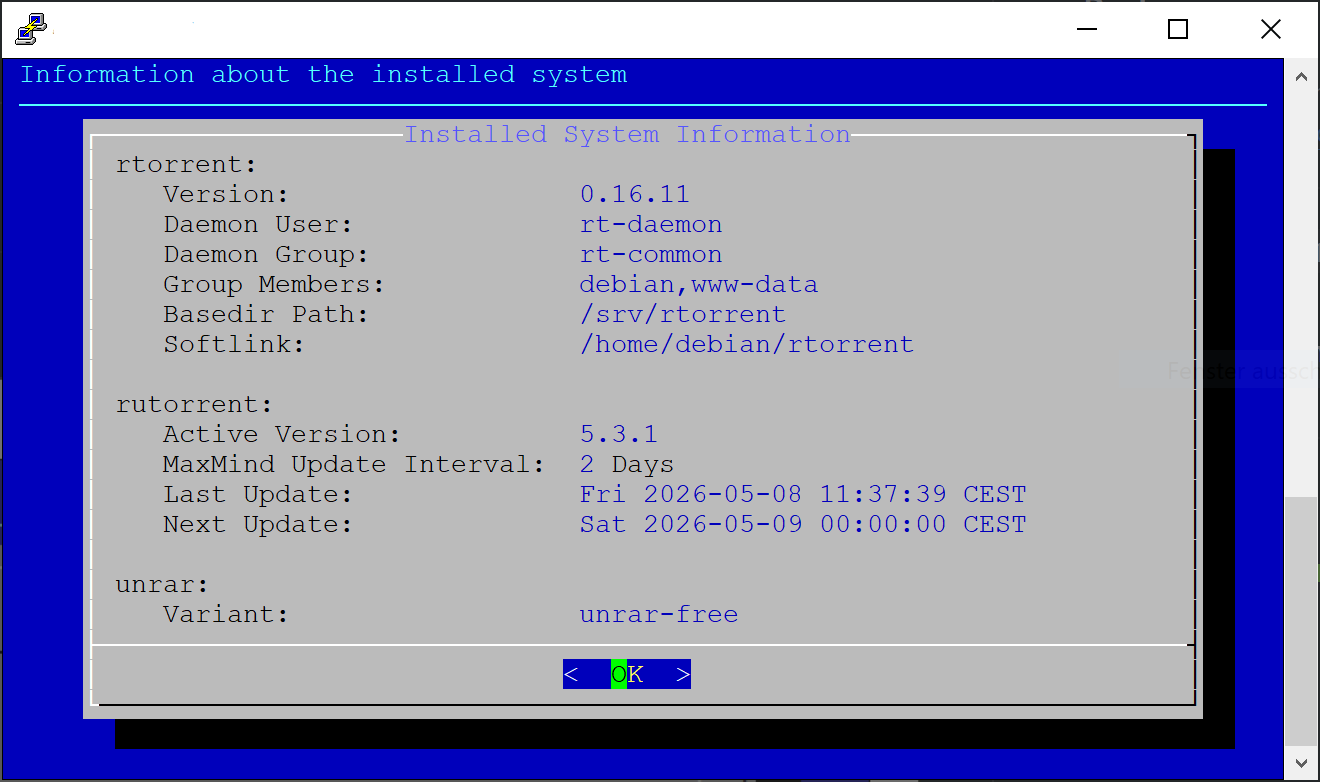
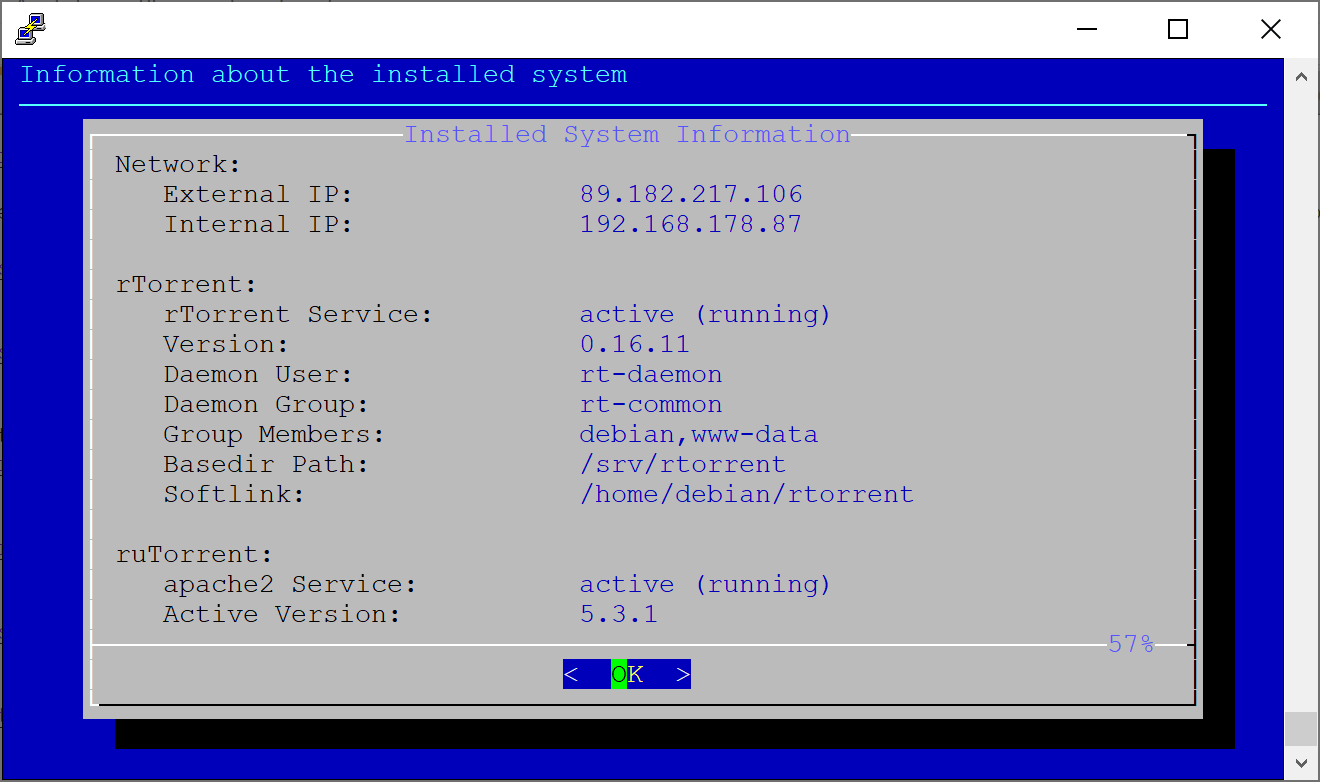
Update to Version 4.4
* fix bug in Installed Information window
* upgrade the Installed Information so that more infomation
  visible

diff --git a/README.md b/README.md
@@ -45,6 +45,7 @@ Choose your rtorrent Version from repository or a release Version direcly from g
 (rtorrent can be changed without reinstallation!)
 
 ![ruTorrent](https://github.com/MarkusLange/r_ru-torrent-install-script/blob/main/screenshots/Ic_Scripted%20Installation_choose_ruTorrent_version.PNG)
+(ruTorrent can be changed without reinstallation!)
 
 Review the Installation Summary, and install everthing if it fits, or arbort it, without making any system changes at all
 ![Scriptet Summery](https://github.com/MarkusLange/r_ru-torrent-install-script/blob/main/screenshots/Id_Scripted%20Installation_summary.PNG)
@@ -67,7 +68,9 @@ Remove unused ruTorrent installations if needes anymore
 
 Or remove the installation if it doesn't fit your needs
 ![Removeall](https://github.com/MarkusLange/r_ru-torrent-install-script/blob/main/screenshots/X_Remove%20complete%20rtorrent%20and%20rutorrent%20installation.PNG)
-(ruTorrent can be changed without reinstallation!)
+
+Overview of the installed system
+![Installed System Infomation](https://github.com/MarkusLange/r_ru-torrent-install-script/blob/main/screenshots/D_System%20Installed%20Information.PNG)
 
 ## Features ##
 - GUI
@@ -123,7 +126,7 @@ Or remove the installation if it doesn't fit your needs
   - List of unrar-nonfree versions in different linux distributions/releases (https://repology.org/project/unrar-nonfree/versions)
 
 ## To-Do's ##
-- more details
+- ~~more details~~
 - ~~add screenshots to readme~~
 - ~~more screenshots~~
 - explain the benefits
